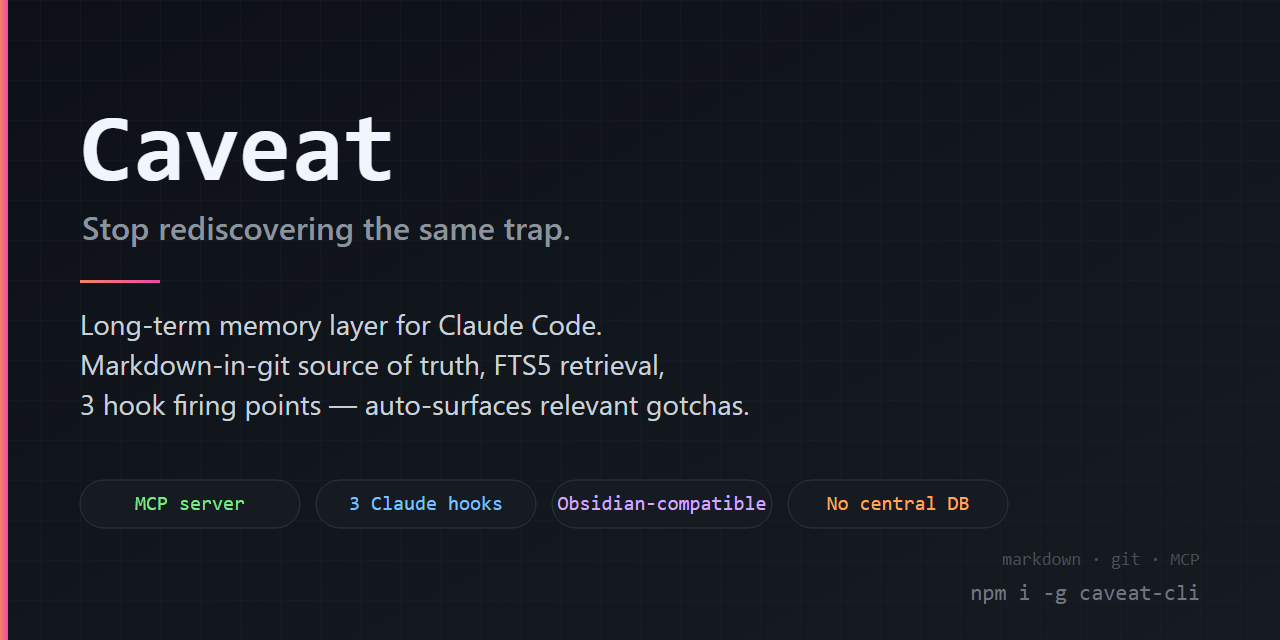
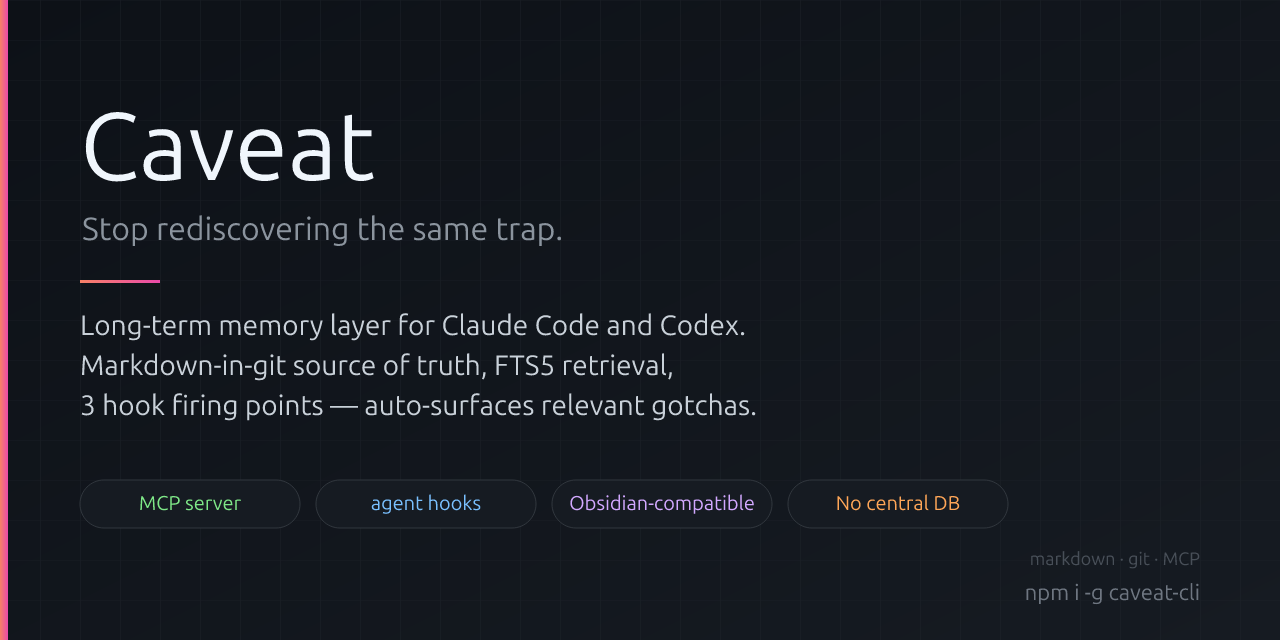
Present Caveat as Claude and Codex ready

diff --git a/README.md b/README.md
@@ -1,5 +1,5 @@
 <p align="center">
-  <img src=".github/og.png" alt="Caveat — long-term memory layer for Claude Code" width="100%">
+  <img src=".github/og.png" alt="Caveat — long-term memory layer for coding agents" width="100%">
 </p>
 
 # Caveat
@@ -10,7 +10,7 @@
 [![node](https://img.shields.io/node/v/caveat-cli?color=339933&logo=node.js&logoColor=white)](https://nodejs.org/)
 [![GitHub release](https://img.shields.io/github/v/release/kitepon-rgb/Caveat?color=24292e&logo=github)](https://github.com/kitepon-rgb/Caveat/releases)
 
-> **Stop rediscovering the same trap.** Caveat is a long-term memory layer for Claude Code: every time you bleed for an external-spec quirk or a repo-specific oddity, write it down once — and the next time anyone (you or your AI) is about to step on the same rake, the relevant note surfaces automatically.
+> **Stop rediscovering the same trap.** Caveat is a long-term memory layer for Claude Code and Codex: every time you bleed for an external-spec quirk or a repo-specific oddity, write it down once — and the next time anyone (you or your AI) is about to step on the same rake, the relevant note surfaces automatically.
 
 🇯🇵 **日本語版**: [README.ja.md](README.ja.md)
 
@@ -18,26 +18,27 @@
 
 ```sh
 npm install -g caveat-cli
-caveat init                          # registers MCP server + Claude Code hooks
-caveat codex-hook install            # optional: register equivalent hooks with Codex
+caveat init                          # registers Claude Code MCP + hooks
+caveat codex-hook install            # optional: register native Codex hooks
 ```
 
-Then in any Claude Code session:
+With Claude Code or Codex hooks enabled:
 
 1. **You type a prompt** → `UserPromptSubmit` hook surfaces matching entries via three structural gates: **co-occurrence + symptom-section match + rare topical anchor**. No keyword lists. Bare proper-noun mentions (`RTX 5090 CUDA で何かやってる`) stay silent; specific failure vocabulary plus a curated topic anchor (`cudaGetDeviceCount が 0 を返す`) fires the right entry. ([details](CHANGELOG.md#0142--2026-05-06))
-2. **A tool returns an error** → `PostToolUse` / `PostToolUseFailure` hooks spawn a detached worker that searches in the background; the matching caveat lands on the next tick (~20ms foreground latency). If the current project has an operational `codex-sidecar`, Caveat appends a Codex second opinion after the original reminder.
-3. **The session ends** → `Stop` hook parses the transcript for objective struggle signals (tool failures, repeated edits, web searches, bash retries). If any are present, it nudges Claude to either `caveat_update` an existing entry or `caveat_record` a new one, again with optional Codex advice when sidecar is configured.
+2. **A tool returns an error** → `PostToolUse` hooks spawn a detached worker that searches in the background; the matching caveat lands on the next hook tick (~20ms foreground latency). Claude Code also registers `PostToolUseFailure` for current failed-tool payloads.
+3. **The session ends** → `Stop` hook parses the transcript for objective struggle signals (tool failures, repeated edits, web searches, bash retries). If any are present, it nudges the active agent to update an existing entry or record a new one.
 
-In a primary Codex session, `caveat codex-hook install` wires the same three
-Caveat timings through Codex's native hook runtime. This is direct Caveat CLI
-integration, not a `codex-sidecar` call; sidecar remains for bounded second
-opinions, review, risk-check, and isolated work.
+Claude receives Caveat reminders as `<system-reminder>` blocks and can use the
+MCP tools to search, record, and update entries. A primary Codex session uses
+Codex's native hook runtime and Codex-formatted hook output. That path calls
+Caveat CLI directly; `codex-sidecar` remains for bounded second opinions,
+review, risk-check, and isolated work.
 
 The knowledge repo is plain markdown-in-git. Open it as an Obsidian vault. Share it as a team repo with `git push`. There is no central server — trust is defined **socially**, by who you choose to subscribe to via `caveat community add <github-url>`.
 
 ## How it compares
 
-| | **Caveat** | `.cursorrules` / `CLAUDE.md` | RAG over docs | Notion / Obsidian (manual) |
+| | **Caveat** | `.cursorrules` / `CLAUDE.md` / `AGENTS.md` | RAG over docs | Notion / Obsidian (manual) |
 |---|---|---|---|---|
 | Surfaces context **automatically** | ✅ 3 hook firing points | ❌ always-on, fills context | ⚠ on explicit query | ❌ manual recall |
 | Granular per-trap retrieval | ✅ FTS5 co-occurrence | ❌ monolithic file | ✅ embeddings | ❌ |
@@ -75,7 +76,7 @@ flowchart LR
 
     MD -->|caveat index| FTS[("SQLite + FTS5<br/>trigram")]
 
-    subgraph CC["Claude Code session"]
+    subgraph AG["Agent session (Claude Code / Codex)"]
         P["User prompt"]
         T["Tool error<br/>(is_error: true)"]
         S["Session end<br/>(transcript signals)"]
@@ -89,17 +90,17 @@ flowchart LR
     H2 --> FTS
     H3 --> FTS
 
-    FTS ==>|matched entries| R["&lt;system-reminder&gt;<br/>injected into context"]
-    R ==> CC
+    FTS ==>|matched entries| R["Claude: &lt;system-reminder&gt;<br/>Codex: hook output"]
+    R ==> AG
 ```
 
 - **`markdown-in-git` is the source of truth.** SQLite (FTS5 trigram) is a rebuildable derived index, gitignored.
 - **Per-group sharing via plain git.** Your `~/.caveat/own/` is yours. Share via any git repo (your own, a team's `acme-corp/caveats`, etc.). Subscribers add it with `caveat community add <github-url>`; updates flow via `caveat community pull`. The tool stays out of the publish path.
 - **`visibility: public | private`** frontmatter + `.husky/pre-commit` gate keeps private entries out of any repo you commit to.
-- **Claude Code integration.** An MCP server exposes 6 tools (`caveat_search` / `caveat_get` / `caveat_record` / `caveat_update` / `caveat_list_recent` / `caveat_pull`). Three hook timings fire at complementary points and surface matching caveats automatically — no hardcoded keyword lists:
+- **Agent integrations.** Claude Code gets an MCP server exposing 6 tools (`caveat_search` / `caveat_get` / `caveat_record` / `caveat_update` / `caveat_list_recent` / `caveat_pull`) plus hooks. Codex gets native hooks through `caveat codex-hook install`. Both surfaces reuse the same retrieval gates — no hardcoded keyword lists:
   - **UserPromptSubmit** (事前発火): when you submit a prompt, tokenize it (path-stripping + self-identity + pure-hiragana glue removal + CJK group dedup), FTS the DB, and surface entries that pass **three structural gates** — (1) ≥ 2 distinct group matches (co-occurrence), (2) ≥ 1 match in the entry's `## Symptom` section (failure-state evidence), (3) ≥ 1 corpus-rarest prompt token in `topical_text` (title + tags + environment values, topic evidence). Bare proper-noun mentions like `RTX 5090 CUDA で何かやってる` stay silent; only specific failure-state vocabulary plus a curated topic anchor (`cudaGetDeviceCount`, `SQLITE_READONLY`, …) fires the gate. No hardcoded word lists.
-  - **PostToolUse / PostToolUseFailure** (実行中発火): when a tool returns `is_error: true` or Claude Code emits a failed-tool `error` payload, spawn a detached worker that does the FTS asynchronously so the foreground hook returns in ~20ms; the reminder lands on the next hook tick. If `codex-sidecar` is configured, Codex advice is appended to the same reminder after Caveat's original text.
-  - **Stop** (事後発火): parse the session transcript for objective struggle signals (tool failures, repeated file edits, web searches, bash retries). If any are present, surface matching entries and nudge `caveat_update` or `caveat_record`. Optional Codex advice can challenge or sharpen that nudge without replacing Caveat's trigger logic.
+  - **PostToolUse** (+ Claude **PostToolUseFailure**) (実行中発火): when a tool returns `is_error: true` or Claude Code emits a failed-tool `error` payload, spawn a detached worker that does the FTS asynchronously so the foreground hook returns in ~20ms; the reminder lands on the next hook tick. In Claude-hosted sessions, an operational `codex-sidecar` can append Codex advice after Caveat's original text.
+  - **Stop** (事後発火): parse the session transcript for objective struggle signals (tool failures, repeated file edits, web searches, bash retries). If any are present, surface matching entries and nudge `caveat_update` or `caveat_record`. In Claude-hosted sessions, optional Codex advice can challenge or sharpen that nudge without replacing Caveat's trigger logic.
 - **Codex primary hook adapter.** `caveat codex-hook install` registers
   `UserPromptSubmit`, `PostToolUse`, and `Stop` in `~/.codex/hooks.json` and
   enables `[features].codex_hooks = true`. It reuses Caveat's existing search,
@@ -112,7 +113,8 @@ flowchart LR
 ```
 packages/core/        @caveat/core — DB (node:sqlite + FTS5 trigram), indexer, frontmatter,
                       env fingerprint, repository, record/update, community, paths,
-                      Claude Code hook logic (claudeHooks.ts)
+                      shared hook retrieval logic (claudeHooks.ts; Claude name
+                      retained for the canonical Claude contract)
 apps/cli/             caveat-cli (published to npm) — bundled CLI with subcommands:
                         init / uninstall / index [--full] / search / list / stale / show /
                         stats / serve / mcp-server / hook <name> / community add|pull|list /
@@ -142,14 +144,14 @@ docs/archive/         Superseded drafts (legacy brainstorms, etc.)
 ```sh
 npm install -g caveat-cli
 caveat init                                                # one-time setup (see below)
-caveat codex-hook install                                  # optional Codex hook setup
+caveat codex-hook install                                  # optional native Codex hook setup
 caveat search "rtx"                                        # search your local entries
 caveat community add https://github.com/acme-corp/caveats  # subscribe to a group repo
 caveat pull                                                # git-pull subscribed repos and re-index
 caveat serve                                               # http://localhost:4242/ read-only portal
 ```
 
-What `caveat init` does on first run:
+What `caveat init` does on first run for Claude Code:
 - Writes `~/.caveatrc.json` (empty `{}` — defaults come from a constant in the CLI)
 - Scaffolds `~/.caveat/own/` (your knowledge repo root) + `~/.caveat/index/caveat.db`
 - Runs `claude mcp add --scope user caveat -- <node> --disable-warning=ExperimentalWarning <cliPath> mcp-server`

diff --git a/README.ja.md b/README.ja.md
@@ -1,5 +1,5 @@
 <p align="center">
-  <img src=".github/og.png" alt="Caveat — Claude Code のための長期記憶レイヤ" width="100%">
+  <img src=".github/og.png" alt="Caveat — コーディングエージェントのための長期記憶レイヤ" width="100%">
 </p>
 
 # Caveat
@@ -10,7 +10,7 @@
 [![node](https://img.shields.io/node/v/caveat-cli?color=339933&logo=node.js&logoColor=white)](https://nodejs.org/)
 [![GitHub release](https://img.shields.io/github/v/release/kitepon-rgb/Caveat?color=24292e&logo=github)](https://github.com/kitepon-rgb/Caveat/releases)
 
-> **同じ罠を二度踏まないために。** Caveat は Claude Code のための長期記憶レイヤです。外部仕様の地雷を踏んで時間を溶かしたり、自分の repo 固有の独自設計を忘れたりしたとき、**一度書き留めておけば** 次に同じ場面に出くわした瞬間に自動で関連メモが浮上します（あなたが意識していなくても、AI が意識していなくても）。
+> **同じ罠を二度踏まないために。** Caveat は Claude Code と Codex のための長期記憶レイヤです。外部仕様の地雷を踏んで時間を溶かしたり、自分の repo 固有の独自設計を忘れたりしたとき、**一度書き留めておけば** 次に同じ場面に出くわした瞬間に自動で関連メモが浮上します（あなたが意識していなくても、AI が意識していなくても）。
 
 🇬🇧 **English**: [README.md](README.md)
 
@@ -18,26 +18,27 @@
 
 ```sh
 npm install -g caveat-cli
-caveat init                          # MCP サーバと Claude Code hooks を登録
-caveat codex-hook install            # 任意: 同等の hook を Codex に登録
+caveat init                          # Claude Code MCP + hooks を登録
+caveat codex-hook install            # 任意: Codex native hooks を登録
 ```
 
-これで Claude Code セッションの中で:
+Claude Code または Codex の hook を有効にすると:
 
 1. **プロンプト送信時** → `UserPromptSubmit` hook が **3 段の構造的ゲート**でマッチエントリを surface: 共起 + 症状セクション一致 + rare topical anchor。キーワード allowlist も stopword リストもなし。固有名詞だけの言及 (`RTX 5090 CUDA で何かやってる`) は silent、症状語彙と curated topic anchor (`cudaGetDeviceCount が 0 を返す`) が揃うと正解エントリだけ発火する。([詳細](CHANGELOG.md#0142--2026-05-06))
-2. **ツールがエラー返却したとき** → `PostToolUse` / `PostToolUseFailure` hook が detached worker を起動して非同期に検索。前景は ~20ms で返るのでターン遅延ゼロ、結果は次の hook tick で Claude のコンテキストに載ります。現在の project で `codex-sidecar` が operational なら、既存リマインダーの後ろに Codex の second opinion も追記されます。
-3. **セッション終了時** → `Stop` hook が transcript を解析し、客観的な「もがきシグナル」（ツール失敗、同一ファイル複数編集、Web 検索、Bash 再実行）を抽出。一つでも観測されれば、Claude に対して既存エントリの `caveat_update` か新規 `caveat_record` を促します。sidecar 設定済みなら、この判断材料にも Codex 助言が添えられます。
+2. **ツールがエラー返却したとき** → `PostToolUse` hook が detached worker を起動して非同期に検索。前景は ~20ms で返るのでターン遅延ゼロ、結果は次の hook tick で載ります。現在の Claude Code では failed-tool payload 用に `PostToolUseFailure` も登録します。
+3. **セッション終了時** → `Stop` hook が transcript を解析し、客観的な「もがきシグナル」（ツール失敗、同一ファイル複数編集、Web 検索、Bash 再実行）を抽出。一つでも観測されれば、実行中の agent に既存エントリの更新か新規記録を促します。
 
-Codex を primary session として使う場合は、`caveat codex-hook install` が
-Codex native hook runtime に同じ 3 タイミングを登録します。これは Caveat CLI を
-直接呼ぶ統合であり、`codex-sidecar` を呼ぶ経路ではありません。sidecar は境界のある
-second opinion、review、risk-check、isolated work 用に残します。
+Claude は Caveat reminder を `<system-reminder>` として受け取り、MCP tools で
+search / record / update できます。Codex primary session は Codex native hook
+runtime と Codex 用 formatter を使います。この経路は Caveat CLI を直接呼ぶ統合であり、
+`codex-sidecar` を呼ぶ経路ではありません。sidecar は境界のある second opinion、
+review、risk-check、isolated work 用に残します。
 
 ナレッジ repo は **markdown-in-git** が真実の源。Obsidian の vault としてそのまま開けます。チームで共有したければ普通に `git push` すれば良い。中央サーバは存在しません — 信頼は「自動検査」ではなく「**社会的文脈**」で引きます（あなた・チーム・組織が誰を購読するかで決まる、`caveat community add <github-url>`）。
 
 ## 競合との違い
 
-| | **Caveat** | `.cursorrules` / `CLAUDE.md` | ドキュメント RAG | Notion / Obsidian（手動） |
+| | **Caveat** | `.cursorrules` / `CLAUDE.md` / `AGENTS.md` | ドキュメント RAG | Notion / Obsidian（手動） |
 |---|---|---|---|---|
 | 関連コンテキストの **自動 surface** | ✅ 3 発火点 hook | ❌ 常時 on、コンテキスト圧迫 | ⚠ 明示クエリ要 | ❌ 自分で思い出す |
 | 罠ごとの粒度で取り出し | ✅ FTS5 共起 | ❌ モノリシックなファイル | ✅ embeddings | ❌ |
@@ -62,7 +63,7 @@ second opinion、review、risk-check、isolated work 用に残します。
 - **Public** — 同じ外部ツール・仕様を使えば誰でも踏める罠（GPU ドライバ、ネイティブモジュールビルド、IDE の癖、バージョン制約等）。
 - **Private** — コードを読むだけでは復元できない repo 固有の非自明文脈（意図的な非標準挙動、upstream 修正待ちのワークアラウンド、プロジェクト横断の個人的な慣習等）。
 
-判定は `caveat_record` のツール記述に書かれた二項基準で Claude が自動分類します（ユーザの明示指示が最優先）。`.husky/pre-commit` のゲートが `visibility: private` のエントリを共有 repo にコミットさせない仕組み。検索は意図的にフラット — 本文の語彙が自然に仕分けます（public は外部ツール名、private は repo 固有識別子）。詳細は [docs/private-tier-design.md](docs/private-tier-design.md)。
+判定基準は `caveat_record` のツール記述に書かれており、実行中の agent がその二項基準で分類します（ユーザの明示指示が最優先）。`.husky/pre-commit` のゲートが `visibility: private` のエントリを共有 repo にコミットさせない仕組み。検索は意図的にフラット — 本文の語彙が自然に仕分けます（public は外部ツール名、private は repo 固有識別子）。詳細は [docs/private-tier-design.md](docs/private-tier-design.md)。
 </details>
 
 ## アーキテクチャ
@@ -75,7 +76,7 @@ flowchart LR
 
     MD -->|caveat index| FTS[("SQLite + FTS5<br/>trigram")]
 
-    subgraph CC["Claude Code セッション"]
+    subgraph AG["Agent session (Claude Code / Codex)"]
         P["プロンプト送信"]
         T["ツールエラー<br/>(is_error: true)"]
         S["セッション終了<br/>(transcript signals)"]
@@ -89,31 +90,31 @@ flowchart LR
     H2 --> FTS
     H3 --> FTS
 
-    FTS ==>|該当エントリ| R["&lt;system-reminder&gt;<br/>コンテキストに注入"]
-    R ==> CC
+    FTS ==>|該当エントリ| R["Claude: &lt;system-reminder&gt;<br/>Codex: hook output"]
+    R ==> AG
 ```
 
 - **`markdown-in-git`** が真実の源。SQLite (FTS5 trigram) は再構築可能な派生 index で gitignore 済
 - 3 つの発火タイミング (UserPromptSubmit / PostToolUse 系 / Stop) は **同じ共起 FTS ロジック** を異なる入力（プロンプト / ツールエラー / セッションシグナル）で再利用
-- マッチした既存エントリを `<system-reminder>` で Claude のコンテキストに注入 → AI が「このエラーは既知罠 XYZ」を認識できる
+- Claude ではマッチした既存エントリを `<system-reminder>` でコンテキストに注入、Codex では Codex 用 hook output として返す
 - Codex primary hook adapter は `~/.codex/hooks.json` に `UserPromptSubmit` /
   `PostToolUse` / `Stop` を登録し、Codex payload parser と Codex stdout formatter
   だけを差し替えて同じ Caveat ロジックを使います
-- `codex-sidecar` が operational な project では、PostToolUse 系 / Stop の既存リマインダー末尾に Codex の second opinion を追記できます。Caveat の発火判定や記録思想は変えず、助言だけを外部化する補助経路です
+- Claude-hosted session では、`codex-sidecar` が operational な project に限り、PostToolUse 系 / Stop の既存リマインダー末尾に Codex の second opinion を追記できます。Caveat の発火判定や記録思想は変えず、助言だけを外部化する補助経路です
 
 ## クイックスタート（NPM ユーザ）
 
 ```sh
 npm install -g caveat-cli
 caveat init                                                # 初回セットアップ
-caveat codex-hook install                                  # 任意: Codex hook セットアップ
+caveat codex-hook install                                  # 任意: Codex native hook セットアップ
 caveat search "rtx"                                        # ローカルエントリを検索
 caveat community add https://github.com/acme-corp/caveats  # チームの repo を購読
 caveat pull                                                # 購読 repo を git-pull + 再 index
 caveat serve                                               # http://localhost:4242/ 読み取り専用ポータル
 ```
 
-`caveat init` の動作:
+Claude Code 向けの `caveat init` の動作:
 - `~/.caveatrc.json` を生成（中身は空 `{}` — デフォルトは CLI 内部の定数）
 - `~/.caveat/own/`（ナレッジ repo ルート）と `~/.caveat/index/caveat.db` を scaffold
 - `claude mcp add --scope user caveat ...` で MCP サーバを登録
